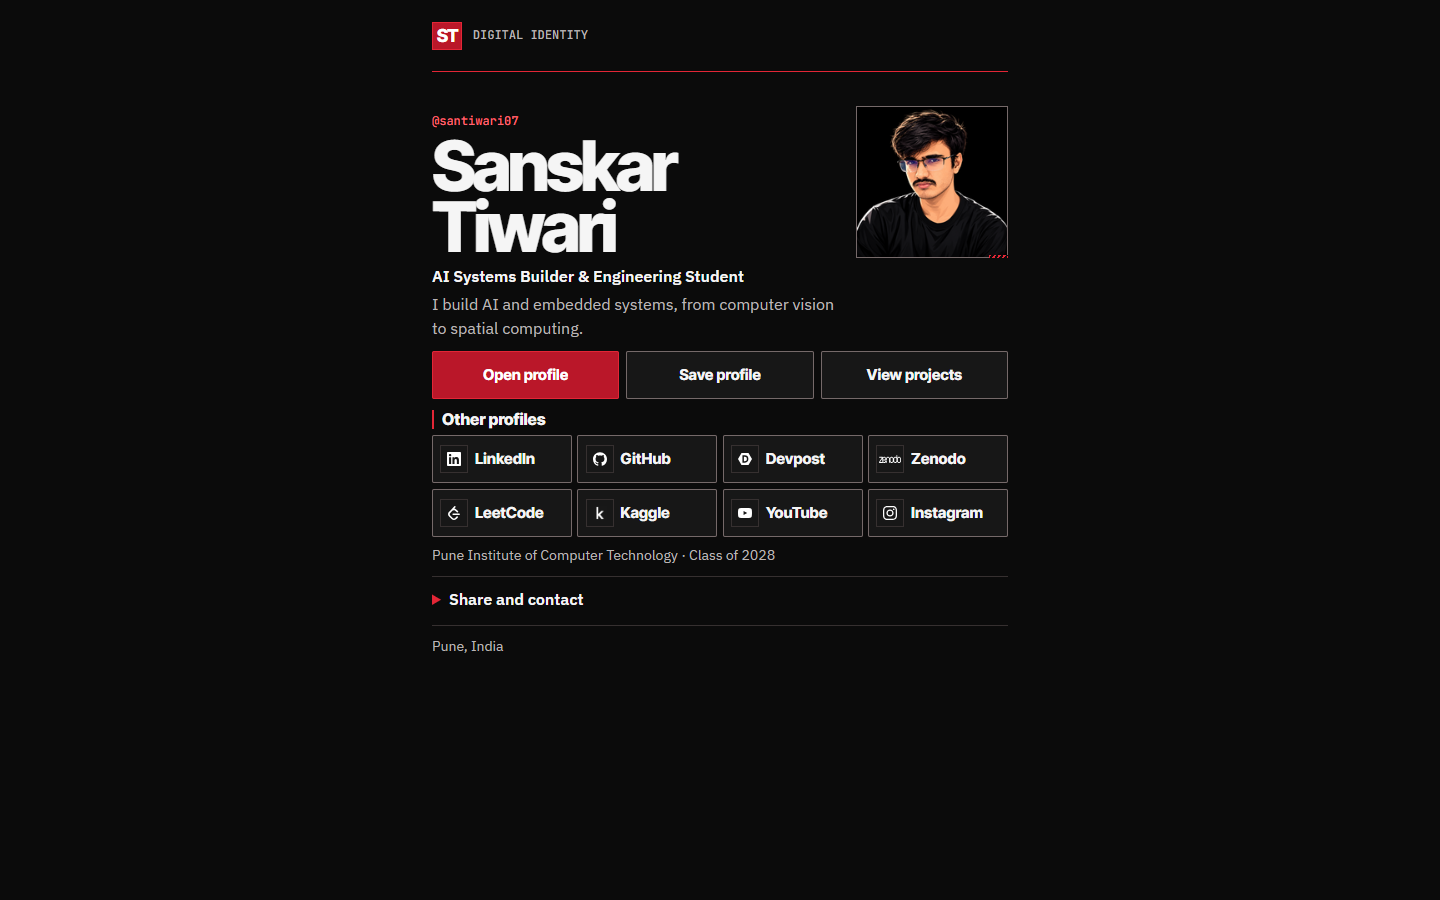
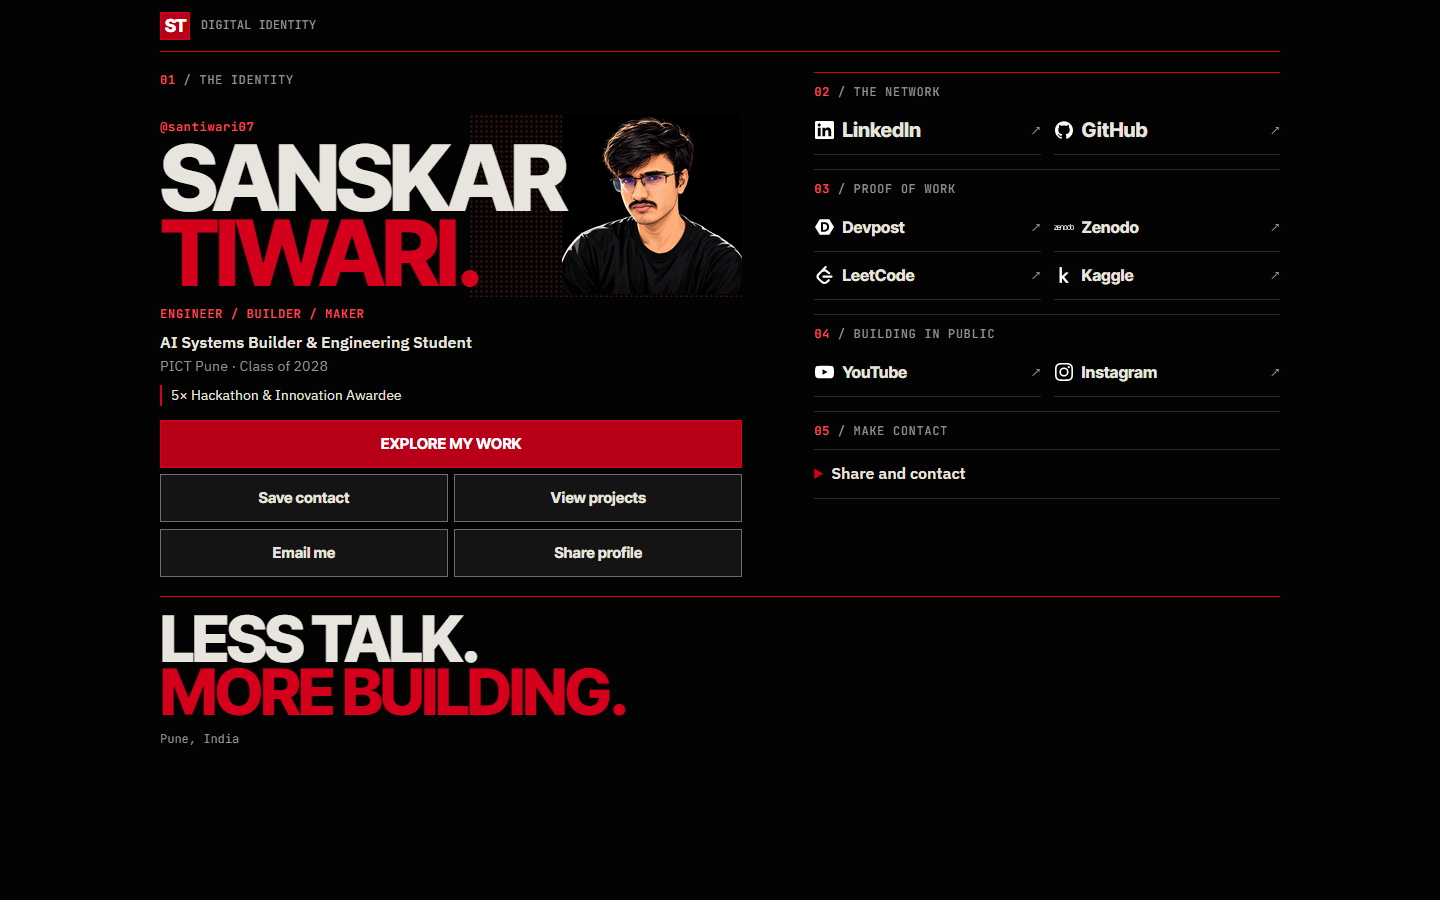
Build the racing-red editorial cover

diff --git a/assets/card.css b/assets/card.css
@@ -21,16 +21,16 @@
 
 :root {
   color-scheme: dark;
-  --canvas: #0b0b0b;
-  --surface: #171717;
+  --canvas: #030303;
+  --surface: #141414;
   --raised: #262020;
-  --text: #f5f5f5;
-  --muted: #bab5b5;
-  --accent: #e32636;
-  --primary: #ba1729;
-  --accent-light: #ff6571;
+  --text: #e8e5df;
+  --muted: #929292;
+  --accent: #d5001c;
+  --primary: #b80019;
+  --accent-light: #ff4a58;
   --ink: #151515;
-  --line: #363030;
+  --line: #292929;
   --control: #756969;
   --heading: "Inter Tight", system-ui, sans-serif;
   --body: "IBM Plex Sans", system-ui, sans-serif;
@@ -63,7 +63,7 @@ button, input { font: inherit; }
 .skip:focus { transform: translateY(0); }
 
 .frame {
-  max-width: 42rem;
+  max-width: 76rem;
   margin-inline: auto;
   padding-inline: max(var(--gutter), env(safe-area-inset-left)) max(var(--gutter), env(safe-area-inset-right));
   padding-top: env(safe-area-inset-top);
@@ -110,46 +110,49 @@ button, input { font: inherit; }
   text-decoration-color: var(--control);
 }
 
-.identity { padding-top: .95rem; }
+.identity { min-width: 0; padding-top: 1rem; }
+.eyebrow, .maker, .handle {
+  color: var(--muted);
+  font: 500 .75rem/1.4 var(--mono);
+  letter-spacing: .055em;
+}
+.eyebrow b { color: var(--accent-light); font-weight: 500; }
 .identity-lead {
-  display: grid;
-  grid-template-columns: minmax(0, 1fr) minmax(0, min(32%, 6.25rem));
-  align-items: end;
-  gap: .55rem;
-}
-.handle { color: var(--accent-light); font: 500 .75rem/1.3 var(--mono); overflow-wrap: anywhere; }
-.identity h1 {
-  margin-top: .42rem;
-  font: 800 clamp(2.52rem, 11vw, 4.25rem)/.88 var(--heading);
-  letter-spacing: -.055em;
-  overflow-wrap: anywhere;
-}
-.portrait {
   position: relative;
-  aspect-ratio: 1;
-  background: #050505;
-  border: 1px solid var(--control);
+  isolation: isolate;
+  min-height: clamp(9.8rem, 45vw, 12rem);
+  display: grid;
+  align-items: end;
+  padding-block: .9rem .35rem;
 }
-.portrait::after {
+.identity-lead::before {
   content: "";
   position: absolute;
-  bottom: -1px;
-  right: -1px;
-  width: 1.2rem;
-  height: 3px;
-  background: repeating-linear-gradient(125deg, var(--accent) 0 2px, var(--canvas) 2px 4px);
+  z-index: -2;
+  inset: 12% 0 0 53%;
+  background: radial-gradient(circle, #9b292c 1px, transparent 1.5px) 0 0 / 5px 5px;
+  opacity: .33;
 }
-.portrait img { width: 100%; height: 100%; object-fit: contain; }
-.role { margin-top: .55rem; font-weight: 600; line-height: 1.23; }
-.bio { margin-top: .4rem; max-width: 42ch; color: var(--muted); }
-.education { margin-top: .55rem; color: var(--muted); font-size: .875rem; overflow-wrap: anywhere; }
-
-.actions {
-  display: grid;
-  grid-template-columns: repeat(3, minmax(0, 1fr));
-  gap: .45rem;
-  margin-top: .65rem;
+.handle { color: var(--accent-light); margin-bottom: .35rem; }
+.identity h1, .footer strong {
+  font: 800 clamp(2.8rem, 12.8vw, 4.8rem)/.82 var(--heading);
+  text-transform: uppercase;
+  letter-spacing: -.045em;
 }
+.identity h1 { position: relative; width: fit-content; max-width: 68%; }
+.identity h1 span, .footer strong span { color: var(--accent); display: block; }
+.portrait {
+  position: absolute;
+  inset: auto 0 .15rem auto;
+  z-index: -1;
+  width: min(44%, 180px);
+}
+.portrait img { width: 100%; height: auto; }
+.maker { margin-top: .55rem; color: var(--accent-light); }
+.role { margin-top: .55rem; font-weight: 600; }
+.education { color: var(--muted); font-size: .9rem; }
+.award { margin-top: .55rem; padding-left: .55rem; border-left: 2px solid var(--accent); font-size: .875rem; }
+.actions { display: grid; grid-template-columns: repeat(2, minmax(0, 1fr)); gap: .4rem; margin-top: .9rem; }
 .action {
   display: inline-flex;
   align-items: center;
@@ -157,7 +160,7 @@ button, input { font: inherit; }
   min-height: 3rem;
   padding: .5rem;
   border: 1px solid var(--control);
-  border-radius: 2px;
+  border-radius: 0;
   background: var(--surface);
   color: var(--text);
   cursor: pointer;
@@ -168,17 +171,14 @@ button, input { font: inherit; }
   transition: background-color 120ms ease, border-color 120ms ease;
 }
 .actions .action { font-size: .9375rem; padding-inline: .25rem; }
-.action-primary { background: var(--primary); color: #fff; border-color: var(--accent); }
+.action-primary { grid-column: 1 / -1; text-transform: uppercase; background: var(--primary); color: #fff; border-color: var(--accent); }
 .action:not(.action-primary):active { background: var(--raised); }
 .action-primary:active { background: #961222; }
 
-.other-profiles { margin-top: .7rem; }
-.other-profiles h2 {
-  margin-bottom: .4rem;
-  padding-left: .5rem;
-  border-left: 2px solid var(--accent);
-  font: 800 1rem/1.15 var(--heading);
-}
+.directory { min-width: 0; margin-top: 1.5rem; }
+.directory-section { border-top: 1px solid var(--line); padding-top: .7rem; margin-top: .9rem; }
+.directory-section:first-child { border-color: var(--accent); margin-top: 0; }
+.directory-section h2 { margin-bottom: .35rem; }
 .share-panel { margin-top: .6rem; border-block: 1px solid var(--line); }
 summary {
   min-height: 3rem;
@@ -197,7 +197,7 @@ summary::marker { color: var(--accent); }
   min-height: 3rem;
   padding: .5rem;
   border: 1px solid var(--control);
-  border-radius: 2px;
+  border-radius: 0;
   background: var(--surface);
   color: var(--text);
 }
@@ -207,87 +207,42 @@ summary::marker { color: var(--accent); }
 .downloads { gap: .8rem; }
 .downloads a { font-size: .875rem; }
 
-.link-list { display: grid; grid-template-columns: repeat(2, minmax(0, 1fr)); gap: .35rem; }
+.link-list { display: grid; grid-template-columns: repeat(2, minmax(0, 1fr)); column-gap: .8rem; }
 .link-entry {
-  display: grid;
-  grid-template-columns: minmax(0, 1fr);
+  display: flex;
   align-items: center;
+  gap: .45rem;
   min-height: 3rem;
-  padding: .3rem .45rem;
-  gap: .42rem;
-  background: var(--surface);
-  border: 1px solid var(--control);
-  border-radius: 2px;
+  padding: .3rem 0;
+  border-bottom: 1px solid var(--line);
   text-decoration: none;
   overflow-wrap: anywhere;
-  transition: background-color 120ms ease, border-color 120ms ease;
+  transition: background-color 120ms ease;
 }
-.link-entry--with-logo { grid-template-columns: minmax(0, min(26%, 1.75rem)) minmax(0, 1fr); }
-.link-logo {
-  display: grid;
-  place-items: center;
-  aspect-ratio: 1;
-  background: var(--surface);
-  border: 1px solid var(--line);
-}
-.link-logo img { width: 54%; height: 54%; object-fit: contain; }
-.link-logo img[src$="/zenodo.svg"] { width: 84%; }
+.network .link-title { font-size: 1.25rem; }
+.link-title { font: 750 1rem/1.13 var(--heading); min-width: 0; }
+.outbound { color: var(--muted); margin-left: auto; font-size: .85rem; }
+.link-logo { flex: none; display: grid; width: 1.3rem; place-items: center; }
+.link-logo img { width: 1.15rem; height: 1.15rem; object-fit: contain; }
+.link-logo img[src$="/zenodo.svg"] { width: 100%; }
 .link-logo img[src$="/kaggle.png"] { filter: brightness(0) invert(1); }
-.link-title { font: 750 .95rem/1.13 var(--heading); }
 .link-entry:active, .link-entry:focus-visible { background: var(--raised); }
-.footer {
-  padding: .65rem 0;
-  color: var(--muted);
-  font-size: .875rem;
-}
+.footer { margin-top: 1.2rem; padding: 1rem 0 1.6rem; border-top: 1px solid var(--accent); }
+.footer strong { display: block; font-size: clamp(2rem, 9vw, 4rem); }
+.footer p { margin-top: .8rem; font: .75rem/1.4 var(--mono); color: var(--muted); }
 
 @media (max-width: 22rem) {
-  .identity h1 { font-size: clamp(2.15rem, 10vw, 2.6rem); }
-  .identity { padding-top: .65rem; }
+  .identity h1 { font-size: 12.2vw; }
 }
 
-@media (min-width: 35rem) {
-  .link-list { grid-template-columns: repeat(4, minmax(0, 1fr)); }
-}
-
-@media (min-width: 42rem) and (min-height: 28.01rem) {
-  .masthead { min-height: 4.5rem; }
-  .identity { padding-top: 2.15rem; }
-  .identity-lead { grid-template-columns: minmax(0, 1fr) minmax(0, min(37%, 9.5rem)); }
-  .identity h1 { font-size: clamp(2.7rem, 6vw, 4.35rem); }
+@media (min-width: 50rem) {
+  .layout { display: grid; grid-template-columns: minmax(0, 1.25fr) minmax(0, 1fr); gap: clamp(2rem, 5vw, 5rem); padding-top: 1.25rem; }
+  .identity, .directory { margin-top: 0; padding-top: 0; }
+  .identity-lead { min-height: 13rem; }
+  .portrait { width: min(40%, 180px); }
+  .identity h1 { font-size: clamp(3rem, 6.35vw, 6rem); }
   .share-content { grid-template-columns: minmax(0, 1fr) auto; }
 }
-
-@media (min-width: 35rem) and (max-height: 28rem) and (orientation: landscape) {
-  .masthead { min-height: 3rem; }
-  .identity {
-    padding-top: .65rem;
-    display: grid;
-    grid-template-columns: minmax(0, .85fr) minmax(0, 1fr);
-    column-gap: .8rem;
-    align-items: start;
-  }
-  .identity-lead { grid-area: 1 / 1; grid-template-columns: minmax(0, 1fr) minmax(0, min(32%, 4.5rem)); }
-  .identity h1 { font-size: clamp(1.7rem, 5vw, 2.65rem); }
-  .role { grid-area: 2 / 1; }
-  .bio { grid-area: 3 / 1; }
-  .actions { grid-area: 1 / 2; margin-top: 0; }
-  .actions .action { font-size: .875rem; }
-  .other-profiles { grid-area: 2 / 2 / span 2; margin-top: .3rem; }
-  .link-entry--with-logo {
-    display: flex;
-    flex-direction: column;
-    justify-content: center;
-    gap: .12rem;
-    padding: .2rem .1rem;
-    text-align: center;
-  }
-  .link-logo { width: 1.12rem; border: 0; }
-  .link-logo img { width: 83%; height: 83%; }
-  .link-title { font-size: .75rem; }
-  .education, .share-panel { grid-column: 1 / -1; }
-}
-
 @media (hover: hover) and (pointer: fine) {
   .downloads a:hover { color: var(--text); }
   .action:hover { border-color: var(--text); }

diff --git a/assets/card.js b/assets/card.js
@@ -54,3 +54,8 @@ document.querySelectorAll(".portrait img").forEach((image) => {
   image.addEventListener("error", hideBrokenImage, { once: true });
   if (image.complete && image.naturalWidth === 0) hideBrokenImage();
 });
+
+
+document.querySelector(".share-jump").addEventListener("click", () => {
+  document.getElementById("share-panel").open = true;
+});

diff --git a/DESIGN_SYSTEM.md b/DESIGN_SYSTEM.md
@@ -38,7 +38,7 @@ The primary portfolio defines the black base, charcoal surface, off-white type, 
 
 Foundation contrast ratios are 18.92:1 for off-white on the canvas, 5.58:1 for source gray on the surface and 7.72:1 for lighter gray on the surface. Bright red on the surface gives 5.64:1, and dark text on bright red gives 5.87:1. Off-white on the base red gives 4.19:1, below the 4.5:1 AA threshold for regular text. Check the rendered text and focus states after CSS changes. [W3C contrast guidance](https://www.w3.org/WAI/WCAG22/Understanding/contrast-minimum.html)
 
-## Current direction
+## Previous direction
 
 The current card uses charcoal, portfolio red and off-white. Cinematographer Jeff Cronenweth describes the film’s desaturated palette, practical lighting and willingness to let parts of the frame go dark. The card takes those cues into near-black surfaces, bright type and a small hatched edge on the photograph. Sanskar supplied the portrait directly. [American Society of Cinematographers](https://theasc.com/article/flashback-fight-club/) · [Cooke Optics interview](https://www.youtube.com/watch?v=GFqODinvros)
 
@@ -83,3 +83,8 @@ Self-host the required WOFF2 files with a system fallback and `font-display: swa
 - Actions remain readable and tappable with enlarged text, and keyboard focus is visible across sections.
 - Profile rows keep aligned spacing and avoid clipping or horizontal overflow.
 - Tablet and desktop layouts retain the phone reading order while using the available width.
+
+
+## Final editorial cover
+
+The cover combines oversized Inter Tight, the supplied portrait at up to its native 180 pixel size and a graphite field with racing red (#D5001C). Halftone is limited to the portrait area. Five numbered sections organize the identity, network, proof-of-work links, public channels and contact details. The five-award headline matches the five podiums listed in the public showcase and primary portfolio awards section. [Showcase recognition](https://santiwari07.github.io/#awards)

diff --git a/README.md b/README.md
@@ -1,6 +1,6 @@
 # Sanskar Tiwari — Digital Identity
 
-A mobile-first digital visiting card for NFC taps, QR scans and direct links. The card opens with a portrait, three primary buttons and eight directly visible platform links. Open profile leads to the primary portfolio, Save profile downloads a vCard, and View projects opens the engineering showcase.
+An NFC visiting card with a racing-red editorial cover, direct portfolio and contact actions, and a numbered directory for professional, engineering and creator profiles.
 
 The production candidate is `https://santiwari07.qzz.io/card`. The public URL currently serves the portfolio fallback. Preview the new card locally before integrating it with the portfolio.
 
@@ -29,7 +29,7 @@ Profile text, links, contact details and the canonical URL are maintained in `pr
 | --- | --- |
 | ![Chrome screenshot of the digital card on a phone-size viewport](screenshots/phone.png) | ![Chrome screenshot of the centered digital identity card on a desktop-size viewport](screenshots/desktop.png) |
 
-[iPhone 16-sized first screen](screenshots/iphone-16.png) · [Profile links on a phone](screenshots/directory-phone.png) · [Share panel on a phone](screenshots/sharing-phone.png) · [Full-page screenshots](screenshots/viewports/) · [Responsive test report](RESPONSIVE_TEST_REPORT.md)
+[Full mobile cover and directory](screenshots/editorial-mobile.png) · [Previous responsive baseline](RESPONSIVE_TEST_REPORT.md)
 
 ## Documentation
 
